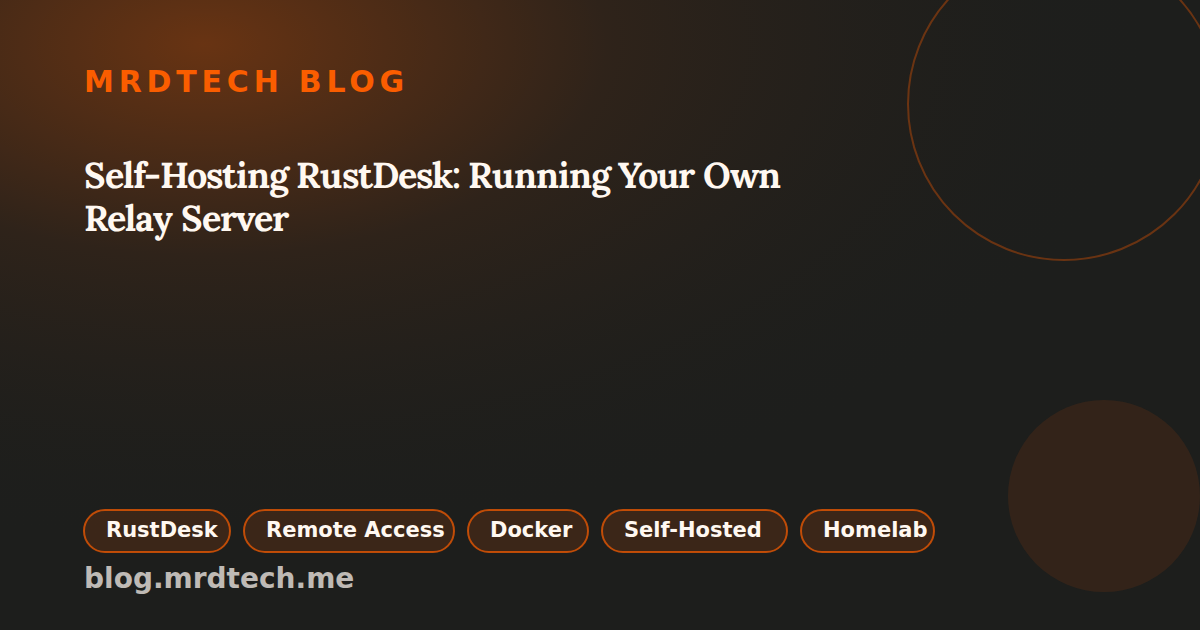
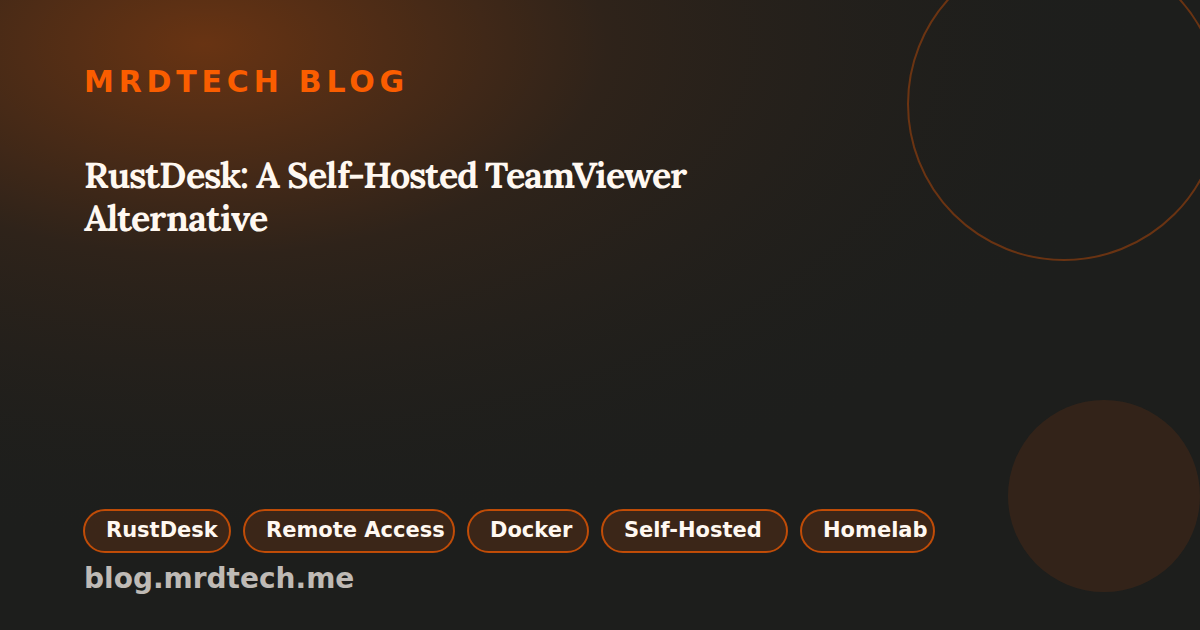
Update RustDesk post title

Changed region(s): [[0.0617, 0.2413, 0.6475, 0.3921]]

diff --git a/_posts/2026-08-26-self-hosted-rustdesk-relay-server.md b/_posts/2026-08-26-self-hosted-rustdesk-relay-server.md
@@ -1,6 +1,6 @@
 ---
 layout: post
-title: "Self-Hosting RustDesk: Running Your Own Relay Server"
+title: "RustDesk: A Self-Hosted TeamViewer Alternative"
 date: 2026-08-26
 excerpt: "Why I moved off the public RustDesk rendezvous/relay infrastructure and stood up my own hbbs/hbbr stack, plus the architecture, key handling, and verification steps to prove it actually works."
 og_image: /assets/og/self-hosted-rustdesk-relay-server.png
@@ -9,7 +9,7 @@ image:
   path: /assets/og/self-hosted-rustdesk-relay-server.png
   width: 1200
   height: 630
-  alt: Self-hosted RustDesk relay server branded social preview image
+  alt: RustDesk self-hosted TeamViewer alternative branded social preview image
 tags:
   - RustDesk
   - Remote Access
